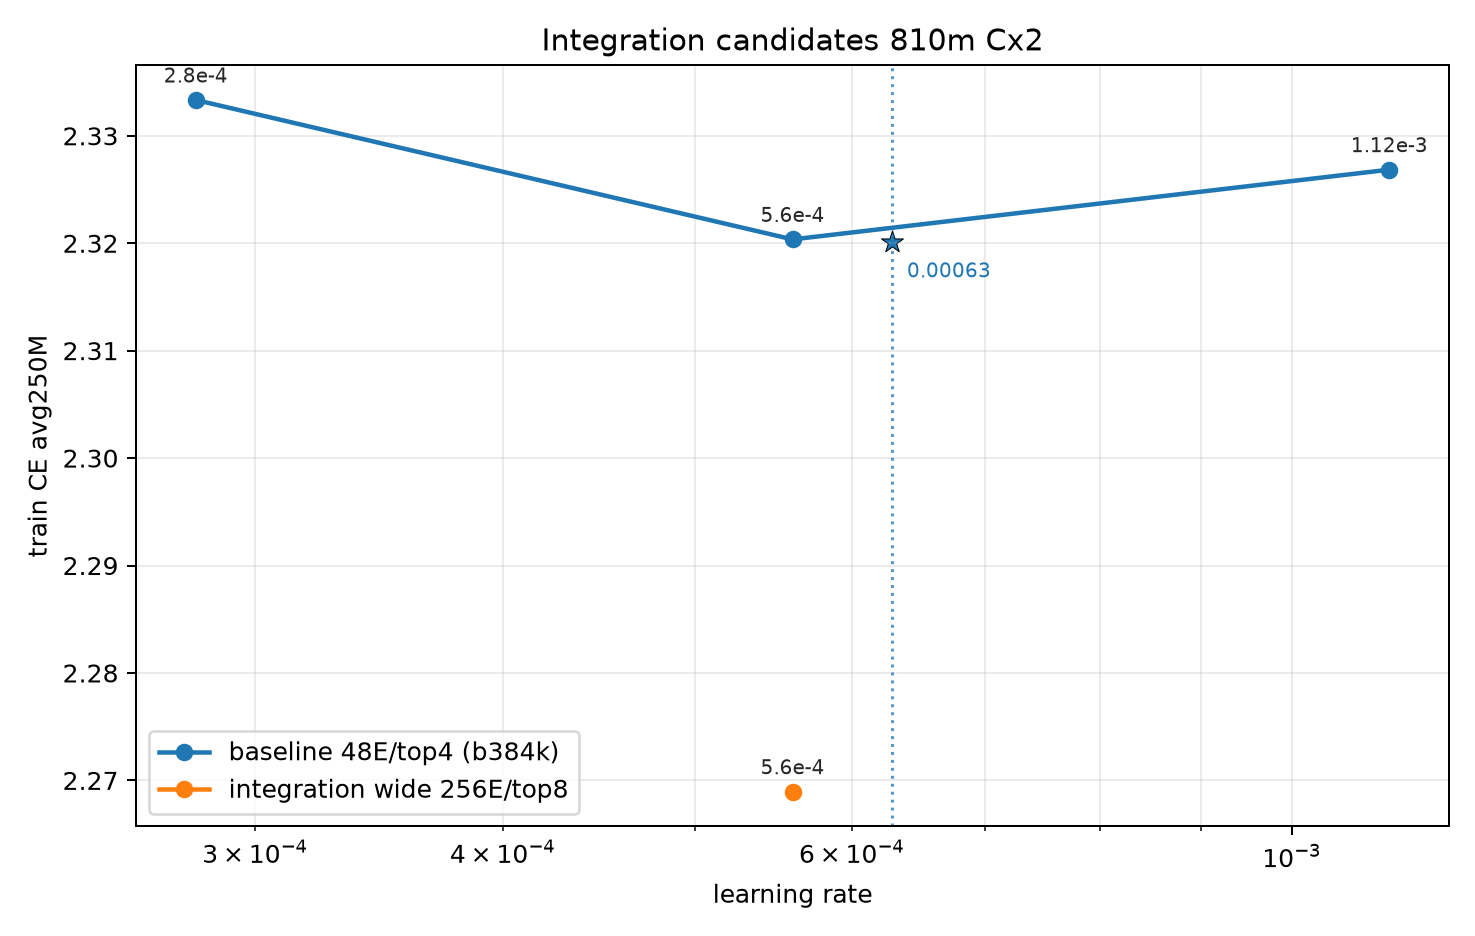
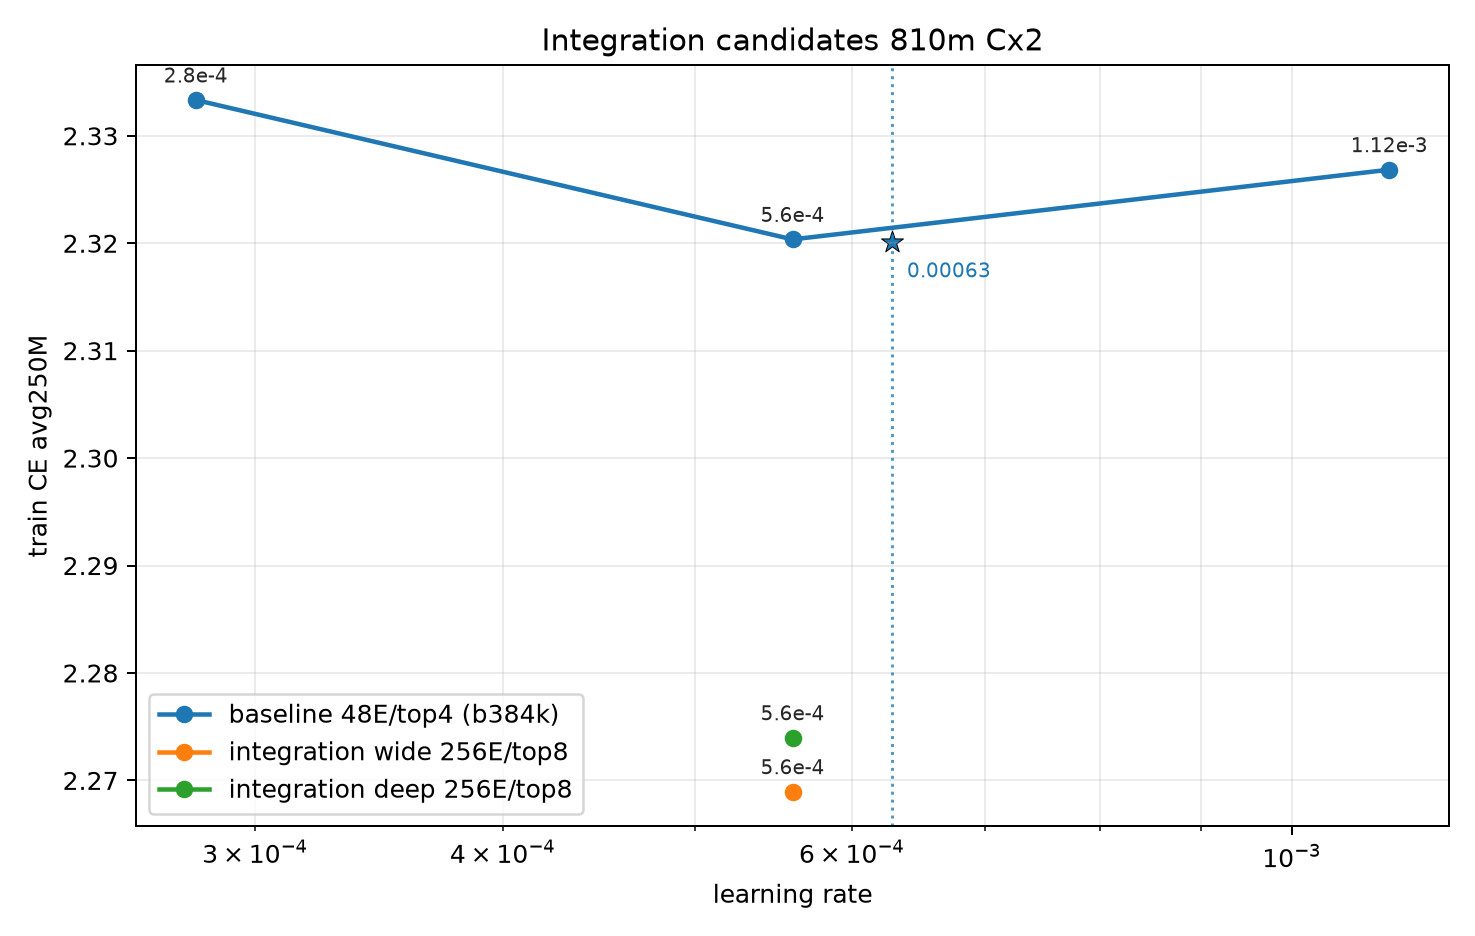
Refresh integration ladder plots

Changed region(s): [[0.0936, 0.7126, 0.4054, 0.8675], [0.5302, 0.7436, 0.5614, 0.8056], [0.0936, 0.8365, 0.1559, 0.8675]]

diff --git a/src/scripts/train/jacobm_olmoe_ladder/EVAL_PLAN.md b/src/scripts/train/jacobm_olmoe_ladder/EVAL_PLAN.md
@@ -222,6 +222,56 @@ Launcher added in the olmo-eval checkout:
 /weka/oe-adapt-default/jacobm/olmoe3/olmo-eval/scripts/olmoe/launch_275m_cx1_base_eval_suite.sh
 ```
 
+
+## 2026-07-03 Auto-Image Old-Path Eval Smoke
+
+The working path is the direct/old `python -m oe_eval.run_eval` Beaker spec using
+`oe-eval-beaker/oe_eval_auto` (`01KPEDSKAH465STZBH0QPBC6KV`), not the newer
+`olmo-eval beaker launch` path. The newer launcher failed with this image because
+it tried to run the current `olmo-eval` checkout under Python 3.11 while the
+checkout requires Python >=3.12.
+
+Validated smoke jobs:
+
+- HF backend correctness smoke: https://beaker.org/ex/01KWK6HSQYTXPH21S88Y3H53QE
+  - exit 0
+  - task `arc_easy:mc`, limit 8
+  - primary score `0.375`
+- vLLM backend smoke: https://beaker.org/ex/01KWK6C5F2XNY25N5A8DJXFCVS
+  - exit 0
+  - task `arc_easy:mc`, limit 64
+  - primary score `0.265625`
+  - model loaded via vLLM 0.11.0 V1 with `TransformersForCausalLM` fallback and
+    `enforce_eager=true`.
+
+Two fixes were required:
+
+1. The converted HF model code must pass the current Transformers mask-helper
+   kwargs: `input_embeds` and `cache_position`. This is fixed in
+   `src/olmo_core/nn/moe/v2/hf/modeling_olmo3moe.py`; already-converted HF
+   checkpoints need to be regenerated or patched before eval.
+2. The auto image's `oe_eval` defaults do not include `enforce_eager`, so the
+   direct Beaker command patches `/stage/oe_eval/default_configs.py` inside the
+   container before invoking `oe_eval.run_eval`. This is container-local and does
+   not mutate the image, repo, or checkpoint.
+
+Reusable launcher:
+
+```text
+src/scripts/train/jacobm_olmoe_ladder/launch_oe_eval_auto_vllm_smoke.sh
+```
+
+Important operational details:
+
+- Clear the cached Transformers remote-code module before each run, otherwise
+  `HF_HOME/modules/transformers_modules/<step>` may keep stale copied code.
+- Use the mounted Weka path (`/weka/oe-training-default/...`) for `model_path`.
+- Keep `add_bos_token=false`, matching the tokenizer/config behavior used in the
+  successful smoke.
+- vLLM currently uses the generic Transformers fallback for `Olmo3MoeForCausalLM`;
+  this works with `enforce_eager=true` but is probably not the fastest possible
+  implementation.
+
 ## Open Questions
 
 - Which exact olmo-eval base suite should become `base-eval-core`?
@@ -255,7 +305,107 @@ Smoke results:
 - HF provider with 2 GPUs worked functionally, but processed only about
   0.5 items/sec on the OLMoBase suite, so it is too slow for the intended sweep.
 
-Conclusion: conversion/checkpoint correctness is not the blocker; the blocker is
-finding or building an eval image where vLLM can use a fast attention backend on
-B200/B300 without the FlashInfer nvcc requirement or the quack/cutlass mismatch.
-Keep the full 275M eval sweep paused until that path is resolved.
+Conclusion update: this was true for the earlier new-launcher/provider path, but
+it is no longer the best current plan. As of 2026-07-03, the direct/as-is
+`oe_eval.run_eval` path with `oe_eval_auto` works for vLLM smoke evals when the
+converted HF checkpoint uses the current Transformers mask-helper kwargs and the
+container-local `MODEL_DEFAULTS` is patched to allow `enforce_eager=true`. This
+is still a Transformers fallback path, so speed should be measured on the real
+suite before launching a large eval batch.
+
+## 2026-07-03 oe_eval_auto Image Smoke
+
+Tried the current `olmo-eval beaker launch` path with the older/internal
+`oe-eval-beaker/oe_eval_auto` image, keeping the converted baseline 275M Cx1 HF
+checkpoint and vLLM provider settings:
+
+- experiment: https://beaker.org/ex/01KWK45KVFMTJZ6PZHTKG6TYVT
+- image: `oe-eval-beaker/oe_eval_auto` / Beaker image
+  `01KPEDSKAH465STZBH0QPBC6KV`
+- task suite: `olmobase:mcqa_stem`
+- provider: `vllm`, 1 GPU, TP=1, max model length 4096
+
+This failed before vLLM startup. The image's active Python environment is
+Python 3.11.14 (`/stage/.venv`), while the current `olmo-eval` branch requires
+Python >=3.12. Gantry therefore failed during the overlay install:
+
+```text
+No solution found when resolving dependencies:
+the current Python version (3.11.14) does not satisfy Python>=3.12
+```
+
+So `oe_eval_auto` cannot currently be used with the new launcher overlay as-is.
+The next useful paths are either an image with Python 3.12 plus a compatible
+vLLM/CUDA stack, or a direct/as-is launch against the older eval runtime already
+baked into `oe_eval_auto`.
+
+## 2026-07-03 Eval Backend / Speed Notes
+
+Prompt-matched HF comparison on `arc_easy:mc`, limit 64, completed with the
+same first request as the vLLM smoke but a different primary score:
+
+- HF backend: https://beaker.org/ex/01KWK70FMMTEQSFKBN09SRZ3ZT
+  - primary score `0.296875`
+- vLLM backend: https://beaker.org/ex/01KWK6C5F2XNY25N5A8DJXFCVS
+  - primary score `0.265625`
+
+So the earlier HF/vLLM difference was not only a prompt subset mismatch; the two
+backends need prediction-level comparison before we treat them as numerically
+interchangeable.
+
+The direct/as-is `oe_eval.run_eval` path in `oe_eval_auto` cannot run the new
+`olmobase:*` suite aliases. A compatibility probe failed with
+`ValueError: Task olmobase:mcqa_stem not found in the task registry`, and a
+registry introspection job found old task names like `arc_easy:mc` but no
+`olmobase:*` or `*:olmo3base` tasks. This means full OLMoBase evals should use
+the newer `olmo-eval` suite layer once the Python/image issue is resolved, rather
+than trying to force the old image path to understand new suites.
+
+Proxy vLLM speed test on the old/direct path:
+
+- job: https://beaker.org/ex/01KWK7E4H1G00ZXSKPK0H8GCHG
+- task: `arc_easy:mc`, limit 1024, one GPU
+- vLLM config: `tensor_parallel_size=1`, `enforce_eager=true`,
+  `TransformersForCausalLM` fallback
+- model load: about 4.7 seconds after weight loading begins
+- scoring: 2,281 loglikelihood requests in about 34 seconds, roughly 66.5
+  loglikelihood requests/sec
+
+A 2-GPU proxy comparison was submitted as
+https://beaker.org/ex/01KWK7E5VQ2P8V2B3WG5R723B5 but had not started when these
+notes were written. For these small 275M checkpoints, the expected efficient
+scaling strategy is multiple independent 1-GPU vLLM engines, not one
+tensor-parallel engine. The newer `olmo-eval` path supports this via
+`provider.num_instances=N` with `provider.kwargs.tensor_parallel_size=1`; the old
+direct path does not expose that cleanly.
+
+
+## 2026-07-03 New-Path OLMoBase Full-Suite Speed Attempt
+
+Tried to get a real OLMoBase-suite speed number for the converted baseline 275M
+Cx1 HF checkpoint on the newer `olmo-eval` path with vLLM and one GPU. This is
+separate from the older `oe_eval_auto` direct path, which is fast on proxy tasks
+but does not have the current `olmobase:*` suite aliases.
+
+Attempts and current state:
+
+- `https://beaker.org/ex/01KWKB3VCFYTBWRCEF6FF8J7K3`: fresh HF cache plus
+  `enforce_eager=true`; failed during vLLM dummy forward because the HF shim was
+  passing `input_embeds` into the causal-mask helper instead of
+  `inputs_embeds`.
+- Patched `input_embeds` -> `inputs_embeds` in the repo HF shim and in the
+  converted checkpoint copy for the optimal 275M Cx1 baseline.
+- `oe-eval-beaker/oe_eval_auto` through the new launcher overlay still fails at
+  dependency resolution because the image Python is 3.11 while this `olmo-eval`
+  branch requires Python >=3.12.
+- Python-3.12 image `01KVTNKQXYACY9J3HEE265KJXA` got through package setup, but
+  the full `olmobase:math` alias includes `gsm_symbolic:p1:olmo3base`, which was
+  not registered/preparable in this environment.
+- Relaunching the non-code-exec suite minus only `gsm_symbolic:p1:olmo3base`
+  reached task/dataset generation but exited `139` before vLLM provider init
+  (`https://beaker.org/ex/01KWKCCTM05ERC121H0D9ZMCVY`).
+
+Current conclusion: we still do not have a trustworthy full-suite speed number.
+The next useful debugging path is to split OLMoBase into smaller chunks, or lower
+any task-prep concurrency / isolate the task that segfaults, then re-measure with
+vLLM once provider initialization is reached.

diff --git a/src/scripts/train/jacobm_olmoe_ladder/RUN_TRACKER.md b/src/scripts/train/jacobm_olmoe_ladder/RUN_TRACKER.md
@@ -13,7 +13,7 @@ Legend: `done` = at least one finished/plotted run exists; `run` = currently run
 | Experiment | Remaining not-yet-queued / not-started cells | Notes |
 | --- | --- | --- |
 | Total sparsity | 1.2B Cx1/2/4/8 for high total 96E/top4 and huge total 192E/top4 | 275M, 480M, and 810M are done. |
-| Integration candidates | 275M LR grid and 480M wide/deep promotions are plotted; 810M wide/deep promotions are in flight | 275M wide Cx4/Cx8 cold follow-ups are done; 480M wide/deep points beat baseline at the same LR; 810M Cx1/Cx2 early points are now plotted. |
+| Integration candidates | 275M LR grid and 480M wide/deep promotions are plotted; 810M wide/deep promotions are partially plotted and still in flight | 275M wide Cx4/Cx8 cold follow-ups are done; 480M wide/deep points beat baseline at the same LR; 810M wide Cx1/Cx2/Cx4 and deep Cx1/Cx2 are now plotted. |
 | Dense schedule | None | 480M, 810M, and 1.2B dense jobs are now finished/plotted. |
 | Shared expert | None | 480M, 810M, and 1.2B Cx1/2/4/8 are Beaker-finalized and plotted. |
 | Qwen-like | None | Active-matched and true-3D Qwen-like grids are finished/plotted through 1.2B Cx8. |
@@ -36,8 +36,8 @@ Legend: `done` = at least one finished/plotted run exists; `run` = currently run
 | Dense schedule | dense4 + shared | done Cx1/2/4/8 | done Cx1/2/4/8 | done Cx1/2/4/8 | done Cx1/2/4/8 | Promoted ladder complete and plotted; some 1.2B dense4 rows use exact tail history. |
 | Qwen3-like | active matched 4.5d | done Cx1/2/4/8 | done Cx1/2/4/8 | done Cx1/2/4/8 | done Cx1/2/4/8 | Main active-matched Qwen-like ladder is plotted through Cx8. |
 | Qwen3-like | true 3.0d + depth | done Cx1/2/4/8 | done Cx1/2/4/8 | done Cx1/2/4/8 | done Cx1/2/4/8 | Main true-3D Qwen-like ladder is plotted through Cx8 after the in-place restart. |
-| Integration candidates | wide 256E/top8 + shared + dense1 | Cx1/Cx2/Cx4/Cx8 done/plotted and bracketed | Cx1/Cx2/Cx4/Cx8 done/plotted | Cx1/Cx2 done/plotted; Cx4/Cx8 running | todo | 480M wide Cx1/Cx2/Cx4/Cx8 beat same-LR baseline; 810M Cx1/Cx2 also beat same-LR baseline. |
-| Integration candidates | deep 256E/top8 + shared + dense1 | Cx1/2/4/8 done/plotted | Cx1/Cx2/Cx4/Cx8 done/plotted | Cx1 done/plotted; Cx2/Cx4/Cx8 running | todo | 480M deep Cx1/Cx2/Cx4/Cx8 beat wide and baseline at same LR; 810M deep Cx1 is slightly better than 810M wide Cx1 so far. |
+| Integration candidates | wide 256E/top8 + shared + dense1 | Cx1/Cx2/Cx4/Cx8 done/plotted and bracketed | Cx1/Cx2/Cx4/Cx8 done/plotted | Cx1/Cx2/Cx4 done/plotted; Cx8 running | todo | 480M wide Cx1/Cx2/Cx4/Cx8 beat same-LR baseline; 810M Cx1/Cx2/Cx4 are plotted and beat same-LR baseline. |
+| Integration candidates | deep 256E/top8 + shared + dense1 | Cx1/2/4/8 done/plotted | Cx1/Cx2/Cx4/Cx8 done/plotted | Cx1/Cx2 done/plotted; Cx4/Cx8 running | todo | 480M deep Cx1/Cx2/Cx4/Cx8 beat wide and baseline at same LR; 810M deep Cx1 is slightly better than wide Cx1, while deep Cx2 trails wide Cx2 slightly. |
 
 ## Active / Queued Beaker Surface
 
@@ -45,8 +45,8 @@ Bounded status pass on 2026-07-01 05:00 UTC checked only runs that were previous
 
 | Run(s) | State | Latest timestamp UTC | Beaker | Notes |
 | --- | --- | --- | --- | --- |
-| `int-810m-cx{1,2,4,8}-intw256e8k-baseline-LR-r1` | mixed | checked 2026-07-03 00:20 | https://beaker.org/ex/01KWGQP0NGMXDEN2PBRGAXJZ7R | 810M wide integration promoted single points on Titan urgent, compile-on. Cx1/Cx2 succeeded and are plotted (`6e-4` avg250M `2.3732`; `5.6e-4` avg250M `2.2689`); Cx4/Cx8 are still running. GBS seq 32/48/64/96; GPUs 8/8/8/8; MB 4/2/4/4. Beaker IDs: Cx1 `01KWGQP0...`, Cx2 `01KWGQPD...`, Cx4 `01KWGQPR...`, Cx8 `01KWGQQ4...`. |
-| `int-810m-cx{1,2,4,8}-intd256e8k-baseline-LR-r1` | mixed | checked 2026-07-03 00:20 | https://beaker.org/ex/01KWGQQVD0TE5ZY5K5T05GEYAK | 810M deep integration promoted single points on Titan urgent, compile-on. Cx1 succeeded and is plotted (`6e-4` avg250M `2.3713`); Cx2/Cx4/Cx8 are still running. GBS seq 32/48/64/96; GPUs 8/8/8/8; MB 4/2/4/4. Current Beaker IDs: Cx1 `01KWGQQVD0TE5ZY5K5T05GEYAK`; Cx2 `01KWHQZQZ811104C16PJ4GTWG7`; Cx4 `01KWHR02WQ7S4FCQ77WJNFSA5S`; Cx8 `01KWHR0DANF34FXQ236WKHHGMM`. |
+| `int-810m-cx{1,2,4,8}-intw256e8k-baseline-LR-r1` | mixed | plotted 2026-07-03 17:55 | https://beaker.org/ex/01KWGQP0NGMXDEN2PBRGAXJZ7R | 810M wide integration promoted single points on Titan urgent, compile-on. Cx1/Cx2/Cx4 succeeded and are plotted (`6e-4` avg250M `2.3732`; `5.6e-4` avg250M `2.2689`; `4e-4` avg250M `2.1928`); Cx8 is still running. GBS seq 32/48/64/96; GPUs 8/8/8/8; MB 4/2/4/4. |
+| `int-810m-cx{1,2,4,8}-intd256e8k-baseline-LR-r1` | mixed | plotted 2026-07-03 17:55 | https://beaker.org/ex/01KWGQQVD0TE5ZY5K5T05GEYAK | 810M deep integration promoted single points on Titan urgent, compile-on. Cx1/Cx2 succeeded and are plotted (`6e-4` avg250M `2.3713`; `5.6e-4` avg250M `2.2740`); Cx4/Cx8 are still running. GBS seq 32/48/64/96; GPUs 8/8/8/8; MB 4/2/4/4. Current Beaker IDs: Cx1 `01KWGQQVD0TE5ZY5K5T05GEYAK`; Cx2 `01KWHQZQZ811104C16PJ4GTWG7`; Cx4 `01KWHR02WQ7S4FCQ77WJNFSA5S`; Cx8 `01KWHR0DANF34FXQ236WKHHGMM`. |
 | `int-480m-cx{1,2,4,8}-intw256e8k-baseline-LR-r1` | queued/created | created 2026-07-01 05:37-05:38 | https://beaker.org/ex/01KWE2XDE9NATMWCWKAH9X29JT | 480M wide integration promoted single points on Titan urgent, compile-on. Cx1 `1.2e-3`, Cx2 `9e-4`, Cx4/Cx8 `8e-4`; GBS seq 32/48/64/96; GPUs 4/4/4/8; MB 4 throughout. Beaker IDs: `01KWE2XDE...`, `01KWE2XSK...`, `01KWE2Y61...`, `01KWE2YHF...`. |
 | `int-275m-cx1-intw256e8k-lr8e-4-r1` | run | restarted attempt started 2026-07-01 02:47 | https://beaker.org/ex/01KWDDW61H689812K3DWHWH97W | Original attempt exited 1 at 2026-06-30 23:51; user restarted in-place and fresh attempt is running. |
 | `int-275m-cx1-intw256e8k-lr1.6e-3-r1` | done | finalized 2026-07-01 02:39 | https://beaker.org/ex/01KWDDWKR6E5ZGKGE0114WM851 | Wide integration Cx1 mid LR finished cleanly and is plotted from tail history. |

diff --git a/src/scripts/train/jacobm_olmoe_ladder/RUNS.md b/src/scripts/train/jacobm_olmoe_ladder/RUNS.md
@@ -1649,3 +1649,40 @@ were relaunched on Titan urgent with compile on and the same training settings:
 | `int-810m-cx2-intd256e8k-lr5.6e-4-r1` | 2 | 5.6e-4 | 48 | 8 | 2 | https://beaker.org/ex/01KWHQZQZ811104C16PJ4GTWG7 |
 | `int-810m-cx4-intd256e8k-lr4e-4-r1` | 4 | 4e-4 | 64 | 8 | 4 | https://beaker.org/ex/01KWHR02WQ7S4FCQ77WJNFSA5S |
 | `int-810m-cx8-intd256e8k-lr4e-4-r1` | 8 | 4e-4 | 96 | 8 | 4 | https://beaker.org/ex/01KWHR0DANF34FXQ236WKHHGMM |
+
+
+## 2026-07-03 1.2B Total-Sparsity Smoke Requeue
+
+Requeued the three short 0.02x Chinchilla 1.2B total-sparsity smoke tests that
+were intentionally stopped on 2026-06-30. These use new `-r2` names and
+checkpoint folders so they do not collide with the stopped `-r1` records. Settings
+match the original smoke specs: `ai2/titan`, workspace
+`ai2/OLMo-3-moe-experiments`, image `tianhuat/olmo-core-torch211-2404-cu128`,
+compile-on, Weka `oe-training-default`, budget `ai2/oe-other`, priority
+`urgent`, `EP=1`, ladder fast evals, and `--no-pre-train-checkpoint`.
+
+| Name | Variant | Shape | LR | GBS seq | Nodes | GPUs / node | EP | MB | Beaker |
+| --- | --- | --- | ---: | ---: | ---: | ---: | ---: | ---: | --- |
+| `sp-smoke-1p2b-cx4shape-sp192e4k-lr2.25e-4-r2` | `huge_total_192e_top4` | Cx4-shaped `b512k` memory smoke | 2.25e-4 | 64 | 4 | 8 | 1 | 1 | https://beaker.org/ex/01KWKEE4SRKAW61NADPQX7Z78G |
+| `sp-smoke-1p2b-cx2shape-sp192e4k-lr4e-4-r2` | `huge_total_192e_top4` | Cx2-shaped `b384k` divisibility smoke | 4e-4 | 48 | 3 | 8 | 1 | 1 | https://beaker.org/ex/01KWKEEMPQB5WBX0BCWGYJFN9V |
+| `sp-smoke-1p2b-cx8shape-sp96e4k-lr3.5e-4-r2` | `high_total_96e_top4` | Cx8-shaped `b768k` one-node smoke | 3.5e-4 | 96 | 1 | 8 | 1 | 4 | https://beaker.org/ex/01KWKEF30D4JDTPN3VSEMBQ5ND |
+
+## 2026-07-03 1.2B Total-Sparsity Smoke Failure Notes
+
+The requeued 1.2B total-sparsity smoke tests failed with CUDA OOMs, so hold off
+on further 1.2B sparsity promotion until we deliberately revisit systems settings.
+This is not blocking the near-term experiment plan because the lower-scale runs
+already show that increasing total sparsity is strongly beneficial.
+
+Observed failure modes:
+
+| Name | Failure | Suggested next retry |
+| --- | --- | --- |
+| `sp-smoke-1p2b-cx4shape-sp192e4k-lr2.25e-4-r2` | OOM during MoE optimizer/model flattening; tried to allocate another 54.33 GiB with ~1.53 GiB free. Microbatch is not the relevant lever. | If needed later, retry 192E/top4 with higher expert parallelism, starting at `EP=2`, then `EP=4` if optimizer init still OOMs. |
+| `sp-smoke-1p2b-cx2shape-sp192e4k-lr4e-4-r2` | OOM during optimizer tensor distribution; ranks were effectively at full 178 GiB B200 memory. Microbatch is not the relevant lever. | Same as above: retry 192E/top4 with higher EP rather than only lowering microbatch. |
+| `sp-smoke-1p2b-cx8shape-sp96e4k-lr3.5e-4-r2` | OOM during compiled compute at `mb=4`; process used ~178.19 / 178.36 GiB. | If needed later, retry 96E/top4 Cx8-shape with `mb=2`, then `mb=1` if necessary. |
+
+Do not relaunch the same `EP=1`/`mb` settings unchanged. For the 192E/top4
+1.2B tests, prioritize changing expert parallelism/sharding over activation-only
+settings; for the 96E/top4 Cx8-shaped test, reducing microbatch is likely enough.
+

diff --git a/src/scripts/train/jacobm_olmoe_ladder/PLOTTED_RESULTS.md b/src/scripts/train/jacobm_olmoe_ladder/PLOTTED_RESULTS.md
@@ -1,6 +1,6 @@
 # Plotted Results
 
-Generated: 2026-07-03 04:15 UTC
+Generated: 2026-07-03 18:00 UTC
 
 This file is generated by `write_plotted_results_md.py` from the same cached W&B histories used by the plotters.
 It mirrors the default plotting policy: completed runs only, training CE averaged over the final 250M tokens, and running jobs excluded so axes and tables do not shift around live partial runs.
@@ -1024,7 +1024,10 @@ These are the completed points used by the integration candidates plots. Baselin
 | 810M | Cx1 | integration deep 256E/top8 | 6e-4 | 2.3713 |  |  | 1 |
 | 810M | Cx1 | integration wide 256E/top8 | 6e-4 | 2.3732 |  |  | 1 |
 | 810M | Cx2 | baseline 48E/top4 (b384k) | 5.6e-4 | 2.3204 | 0.000629 | 2.3201 | 3 |
+| 810M | Cx2 | integration deep 256E/top8 | 5.6e-4 | 2.2740 |  |  | 1 |
 | 810M | Cx2 | integration wide 256E/top8 | 5.6e-4 | 2.2689 |  |  | 1 |
+| 810M | Cx4 | baseline 48E/top4 | 4e-4 | 2.2424 | 0.000514 | 2.2412 | 4 |
+| 810M | Cx4 | integration wide 256E/top8 | 4e-4 | 2.1928 |  |  | 1 |
 
 | model | Cx | variant | LR | tokensB | avg250M | W&B |
 | --- | --- | --- | --- | --- | --- | --- |
@@ -1113,4 +1116,10 @@ These are the completed points used by the integration candidates plots. Baselin
 | 810M | Cx2 | baseline 48E/top4 (b384k) | 2.8e-4 | 27.603 | 2.3333 | [uh4el1df](https://wandb.ai/ai2-llm/jacobm-olmoe-ladder/runs/uh4el1df) |
 | 810M | Cx2 | baseline 48E/top4 (b384k) | 5.6e-4 | 27.603 | 2.3204 | [v5puakhq](https://wandb.ai/ai2-llm/jacobm-olmoe-ladder/runs/v5puakhq) |
 | 810M | Cx2 | baseline 48E/top4 (b384k) | 1.12e-3 | 27.603 | 2.3268 | [sxivrph5](https://wandb.ai/ai2-llm/jacobm-olmoe-ladder/runs/sxivrph5) |
+| 810M | Cx2 | integration deep 256E/top8 | 5.6e-4 | 27.254 | 2.2740 | [7nsy68db](https://wandb.ai/ai2-llm/jacobm-olmoe-ladder/runs/7nsy68db) |
 | 810M | Cx2 | integration wide 256E/top8 | 5.6e-4 | 27.805 | 2.2689 | [jpbqhfvc](https://wandb.ai/ai2-llm/jacobm-olmoe-ladder/runs/jpbqhfvc) |
+| 810M | Cx4 | baseline 48E/top4 | 2e-4 | 55.205 | 2.2575 | [nr84d31z](https://wandb.ai/ai2-llm/jacobm-olmoe-ladder/runs/nr84d31z) |
+| 810M | Cx4 | baseline 48E/top4 | 4e-4 | 55.205 | 2.2424 | [5rqlw5fd](https://wandb.ai/ai2-llm/jacobm-olmoe-ladder/runs/5rqlw5fd) |
+| 810M | Cx4 | baseline 48E/top4 | 8e-4 | 55.205 | 2.2448 | [xparbxbj](https://wandb.ai/ai2-llm/jacobm-olmoe-ladder/runs/xparbxbj) |
+| 810M | Cx4 | baseline 48E/top4 | 1.6e-3 | 55.205 | 2.2684 | [ag7nvx2l](https://wandb.ai/ai2-llm/jacobm-olmoe-ladder/runs/ag7nvx2l) |
+| 810M | Cx4 | integration wide 256E/top8 | 4e-4 | 55.610 | 2.1928 | [58ftjxmw](https://wandb.ai/ai2-llm/jacobm-olmoe-ladder/runs/58ftjxmw) |
